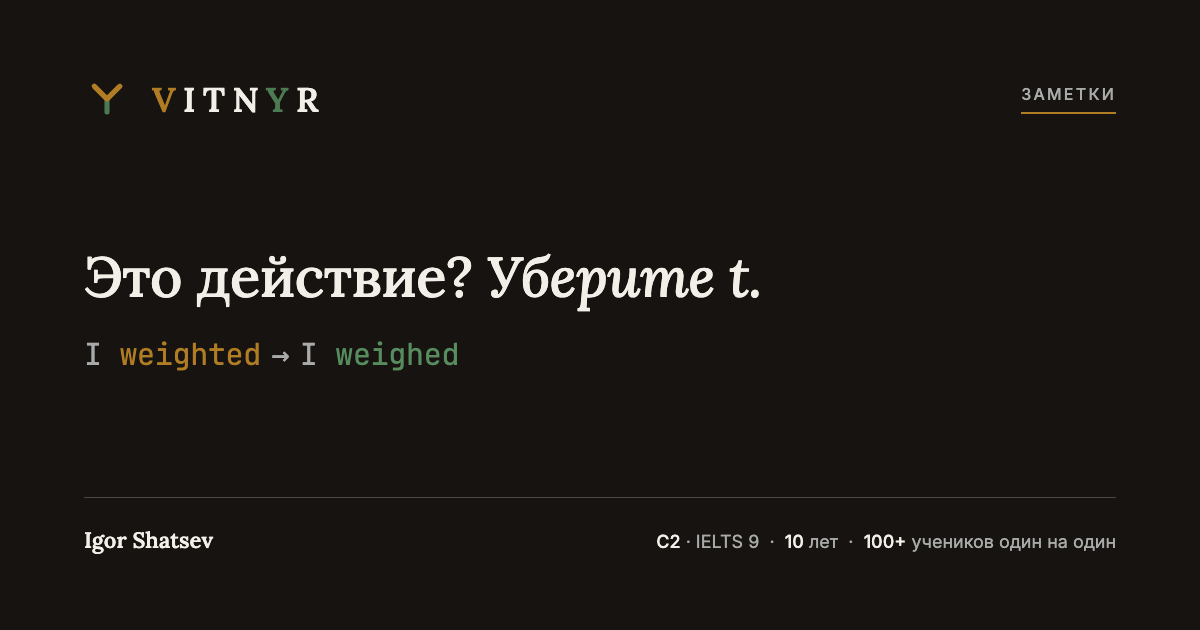
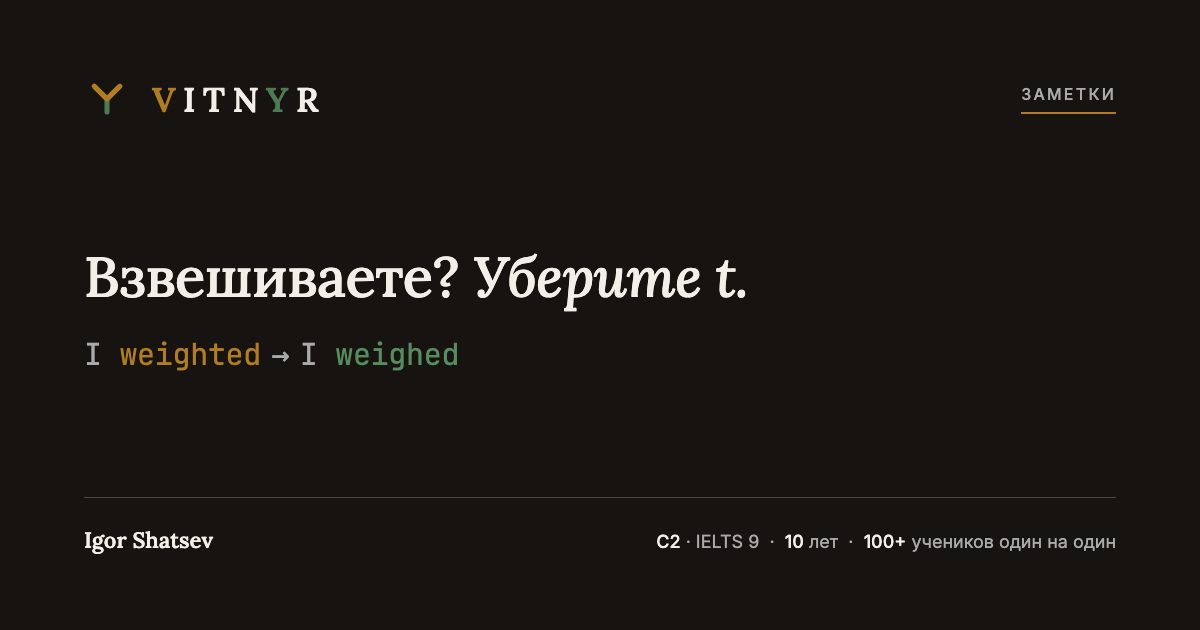
Weigh note: 'Weighing it? Lose the t.' replaces 'Doing it? Drop the t.' (Igor)

Changed region(s): [[0.0617, 0.3921, 0.6475, 0.5127]]

diff --git a/notes/weigh/index.html b/notes/weigh/index.html
@@ -10,7 +10,7 @@
 <meta name="description" content="“I weighted 80 kg” and “It weights 2 pounds” are wrong: the verb is weigh, said like way. Seven phrases with вес and весить, when weighted is right, and a quick test." data-head-ru="«I weighted 80 kg» — ошибка: глагол «весить» — weigh, звучит как way. Семь фраз с «вес» и «весить», когда weighted всё-таки верно, и короткий тест.">
 <meta name="theme-color" content="#EFEBE3">
 
-<meta property="og:title" content="Doing it? Drop the t: weight vs weigh — Igor Shatsev">
+<meta property="og:title" content="Weighing it? Lose the t: weight vs weigh — Igor Shatsev">
 <meta property="og:description" content="weight is the thing; to weigh is the action, said like way. Seven phrases and a test.">
 <meta property="og:locale" content="en_US">
 <meta property="og:locale:alternate" content="ru_RU">
@@ -20,9 +20,9 @@
 <meta property="og:image" content="https://vitnyrcoach.com/assets/share/og-note-weigh.png">
 <meta property="og:image:width" content="1200">
 <meta property="og:image:height" content="630">
-<meta property="og:image:alt" content="Doing it? Drop the t. A note by Igor Shatsev on weight and weigh.">
+<meta property="og:image:alt" content="Weighing it? Lose the t. A note by Igor Shatsev on weight and weigh.">
 <meta name="twitter:card" content="summary_large_image">
-<meta name="twitter:title" content="Doing it? Drop the t: weight vs weigh — Igor Shatsev">
+<meta name="twitter:title" content="Weighing it? Lose the t: weight vs weigh — Igor Shatsev">
 <meta name="twitter:description" content="weight is the thing; to weigh is the action, said like way. Seven phrases and a test.">
 <meta name="twitter:image" content="https://vitnyrcoach.com/assets/share/og-note-weigh.png">
 
@@ -39,7 +39,7 @@
       "@id": "https://vitnyrcoach.com/notes/weigh/#article",
       "url": "https://vitnyrcoach.com/notes/weigh/",
       "mainEntityOfPage": "https://vitnyrcoach.com/notes/weigh/",
-      "headline": "Doing it? Drop the t: weight vs weigh",
+      "headline": "Weighing it? Lose the t: weight vs weigh",
       "description": "weight is the thing; to weigh is the action, said like way. Seven phrases and a test.",
       "inLanguage": ["en", "ru"],
       "datePublished": "2026-10-22",
@@ -56,7 +56,7 @@
       "itemListElement": [
         { "@type": "ListItem", "position": 1, "name": "Igor Shatsev", "item": "https://vitnyrcoach.com/" },
         { "@type": "ListItem", "position": 2, "name": "Notes", "item": "https://vitnyrcoach.com/notes/" },
-        { "@type": "ListItem", "position": 3, "name": "Doing it? Drop the t", "item": "https://vitnyrcoach.com/notes/weigh/" }
+        { "@type": "ListItem", "position": 3, "name": "Weighing it? Lose the t", "item": "https://vitnyrcoach.com/notes/weigh/" }
       ]
     },
     {
@@ -178,11 +178,11 @@
   </p>
   <h1 class="hero__title">
     <span data-l="en">
-      <span class="line"><span class="line__inner">Doing it?</span></span>
-      <span class="line"><span class="line__inner"><em>Drop the t.</em></span></span>
+      <span class="line"><span class="line__inner">Weighing it?</span></span>
+      <span class="line"><span class="line__inner"><em>Lose the t.</em></span></span>
     </span>
     <span data-l="ru">
-      <span class="line"><span class="line__inner">Это действие?</span></span>
+      <span class="line"><span class="line__inner">Взвешиваете?</span></span>
       <span class="line"><span class="line__inner"><em>Уберите t.</em></span></span>
     </span>
   </h1>

diff --git a/notes/index.html b/notes/index.html
@@ -51,7 +51,7 @@
       "@id": "https://vitnyrcoach.com/notes/#list",
       "itemListOrder": "https://schema.org/ItemListOrderDescending",
       "itemListElement": [
-        { "@type": "ListItem", "position": 1, "url": "https://vitnyrcoach.com/notes/weigh/", "name": "Doing it? Drop the t" },
+        { "@type": "ListItem", "position": 1, "url": "https://vitnyrcoach.com/notes/weigh/", "name": "Weighing it? Lose the t" },
         { "@type": "ListItem", "position": 2, "url": "https://vitnyrcoach.com/notes/api-key/", "name": "Three letters and a key" },
         { "@type": "ListItem", "position": 3, "url": "https://vitnyrcoach.com/notes/serial/", "name": "Series, not cereal" },
         { "@type": "ListItem", "position": 4, "url": "https://vitnyrcoach.com/notes/actual/", "name": "Real, not current" },
@@ -214,7 +214,7 @@
         <span class="ledger__meta"><span class="ledger__kind" data-en="Grammar" data-ru="Грамматика">Grammar</span><span class="ledger__count" data-en="weigh · 7 phrases · a test" data-ru="weigh · 7 фраз · тест">weigh · 7 phrases · a test</span></span>
         <span class="ledger__main">
           <span class="ledger__spec"><span class="vh" data-en="Incorrect: " data-ru="Неверно: ">Incorrect: </span><span lang="en">I <del class="mark--specimen">weighted</del> 80 kg</span> <span class="ledger__to" aria-hidden="true">→</span> <span class="vh" data-en="Correct: " data-ru="Верно: ">Correct: </span><span lang="en">I <ins class="mark--target">weighed</ins> 80 kg</span></span>
-          <span class="ledger__title" data-en="Doing it? Drop the t." data-ru="Это действие? Уберите t.">Doing it? Drop the t.</span>
+          <span class="ledger__title" data-en="Weighing it? Lose the t." data-ru="Взвешиваете? Уберите t.">Weighing it? Lose the t.</span>
         </span>
         <span class="ledger__arrow" aria-hidden="true"><svg aria-hidden="true" viewBox="0 0 26 8"><path d="M0 4h23M19 1l4 3-4 3" fill="none" stroke="currentColor" stroke-width="1"/></svg></span>
       </a>

diff --git a/notes/noun-verb-stress/index.html b/notes/noun-verb-stress/index.html
@@ -311,7 +311,7 @@
   <a class="note-pager__all" href="/notes/" data-magnetic><svg aria-hidden="true" viewBox="0 0 26 8"><path d="M26 4H3M7 1L3 4l4 3" fill="none" stroke="currentColor" stroke-width="1"/></svg><span data-en="All notes" data-ru="Все заметки">All notes</span></a>
   <a class="note-pager__next" href="/notes/weigh/" data-magnetic>
     <span class="note-pager__k" data-en="Newest note" data-ru="Самая новая заметка">Newest note</span>
-    <span class="note-pager__t"><span data-en="Doing it? Drop the t" data-ru="Это действие? Уберите t">Doing it? Drop the t</span><svg aria-hidden="true" viewBox="0 0 26 8"><path d="M0 4h23M19 1l4 3-4 3" fill="none" stroke="currentColor" stroke-width="1"/></svg></span>
+    <span class="note-pager__t"><span data-en="Weighing it? Lose the t" data-ru="Взвешиваете? Уберите t">Weighing it? Lose the t</span><svg aria-hidden="true" viewBox="0 0 26 8"><path d="M0 4h23M19 1l4 3-4 3" fill="none" stroke="currentColor" stroke-width="1"/></svg></span>
   </a>
 </nav>
 

diff --git a/assets/share/share-card.html b/assets/share/share-card.html
@@ -145,8 +145,8 @@
     </div>
     <!-- notes:cards (tools/notes/build.py) -->
     <div data-page="note-weigh">
-      <p class="headline" data-l="en">Doing it? <em>Drop the t.</em></p>
-      <p class="headline" data-l="ru">Это действие? <em>Уберите t.</em></p>
+      <p class="headline" data-l="en">Weighing it? <em>Lose the t.</em></p>
+      <p class="headline" data-l="ru">Взвешиваете? <em>Уберите t.</em></p>
       <p class="spec">I <span class="x">weighted</span><span class="to">→</span>I <span class="ok">weighed</span></p>
     </div>
     <div data-page="note-api-key">

diff --git a/tools/notes/weigh.py b/tools/notes/weigh.py
@@ -104,12 +104,12 @@ NOTE = dict(
     from_linkedin=True,
     kind_en="Grammar", kind_ru="Грамматика",
     count_en="weigh · 7 phrases · a test", count_ru="weigh · 7 фраз · тест",
-    title_en="Doing it? Drop the t.", title_ru="Это действие? Уберите t.",
-    short_en="Doing it? Drop the t", short_ru="Это действие? Уберите t",
+    title_en="Weighing it? Lose the t.", title_ru="Взвешиваете? Уберите t.",
+    short_en="Weighing it? Lose the t", short_ru="Взвешиваете? Уберите t",
     ledger_spec=f'I {D("weighted")} 80 kg <span class="ledger__to" aria-hidden="true">→</span> I {I("weighed")} 80 kg',
-    card_en="Doing it? <em>Drop the t.</em>", card_ru="Это действие? <em>Уберите t.</em>",
+    card_en="Weighing it? <em>Lose the t.</em>", card_ru="Взвешиваете? <em>Уберите t.</em>",
     card_spec='I <span class="x">weighted</span><span class="to">→</span>I <span class="ok">weighed</span>',
-    h1_en=["Doing it?", "Drop the t."], h1_ru=["Это действие?", "Уберите t."],
+    h1_en=["Weighing it?", "Lose the t."], h1_ru=["Взвешиваете?", "Уберите t."],
     # The post's opening, then its answer. The Russian is a DRAFT translation.
     stand_en="I’ve seen this mistake a thousand times, and it’s understandable: “I weighted 80 kg”, “It weights 2 pounds”. [[The noun is weight; the verb is weigh, said like way.]]",
     stand_ru="Я видел эту ошибку тысячу раз, и понятно, откуда она берётся: «I weighted 80 kg», «It weights 2 pounds». [[Существительное — weight, глагол — weigh, и звучит он как way.]]",
@@ -119,10 +119,10 @@ NOTE = dict(
     title_ru_head="Весить по-английски: weight или weigh? — Igor Shatsev",
     desc_en="“I weighted 80 kg” and “It weights 2 pounds” are wrong: the verb is weigh, said like way. Seven phrases with вес and весить, when weighted is right, and a quick test.",
     desc_ru="«I weighted 80 kg» — ошибка: глагол «весить» — weigh, звучит как way. Семь фраз с «вес» и «весить», когда weighted всё-таки верно, и короткий тест.",
-    og_title="Doing it? Drop the t: weight vs weigh — Igor Shatsev",
+    og_title="Weighing it? Lose the t: weight vs weigh — Igor Shatsev",
     og_desc="weight is the thing; to weigh is the action, said like way. Seven phrases and a test.",
-    og_alt="Doing it? Drop the t. A note by Igor Shatsev on weight and weigh.",
-    ld_headline="Doing it? Drop the t: weight vs weigh",
+    og_alt="Weighing it? Lose the t. A note by Igor Shatsev on weight and weigh.",
+    ld_headline="Weighing it? Lose the t: weight vs weigh",
     contact_lede_en="One letter too many is easy to miss in your own speech. I’ll hear it straight away, and that’s what the trial lesson is for. [[It’s 30 minutes, free, and you owe me nothing after it]]. If it fits, we agree on a plan, online or in Yerevan.",
     contact_lede_ru="Одну лишнюю букву в своей речи легко пропустить. Я услышу её сразу — для этого и нужно пробное занятие. [[Это 30 минут, бесплатно и ни к чему не обязывает]]. Если подходит — составляем план, онлайн или в Ереване.",
     tg_en="Hi! I came from your note about “weigh”. I'd like to book a free trial English lesson.",

diff --git a/BUILD-NOTES.md b/BUILD-NOTES.md
@@ -6814,3 +6814,6 @@ merged in `reference/notes-copy-review.md`. Igor approved sections A-D.
   which change all four main pages. NQ17.
 - **Checked by eye** (no tests, Igor's call): all eight notes and the index
   in both themes, languages and widths, no overflow, no console errors.
+- **Then, Igor's call:** the weigh headline "Doing it? Drop the t." became
+  "Weighing it? Lose the t." (RU «Взвешиваете? / Уберите t.»), and its two
+  share cards were re-exported.
